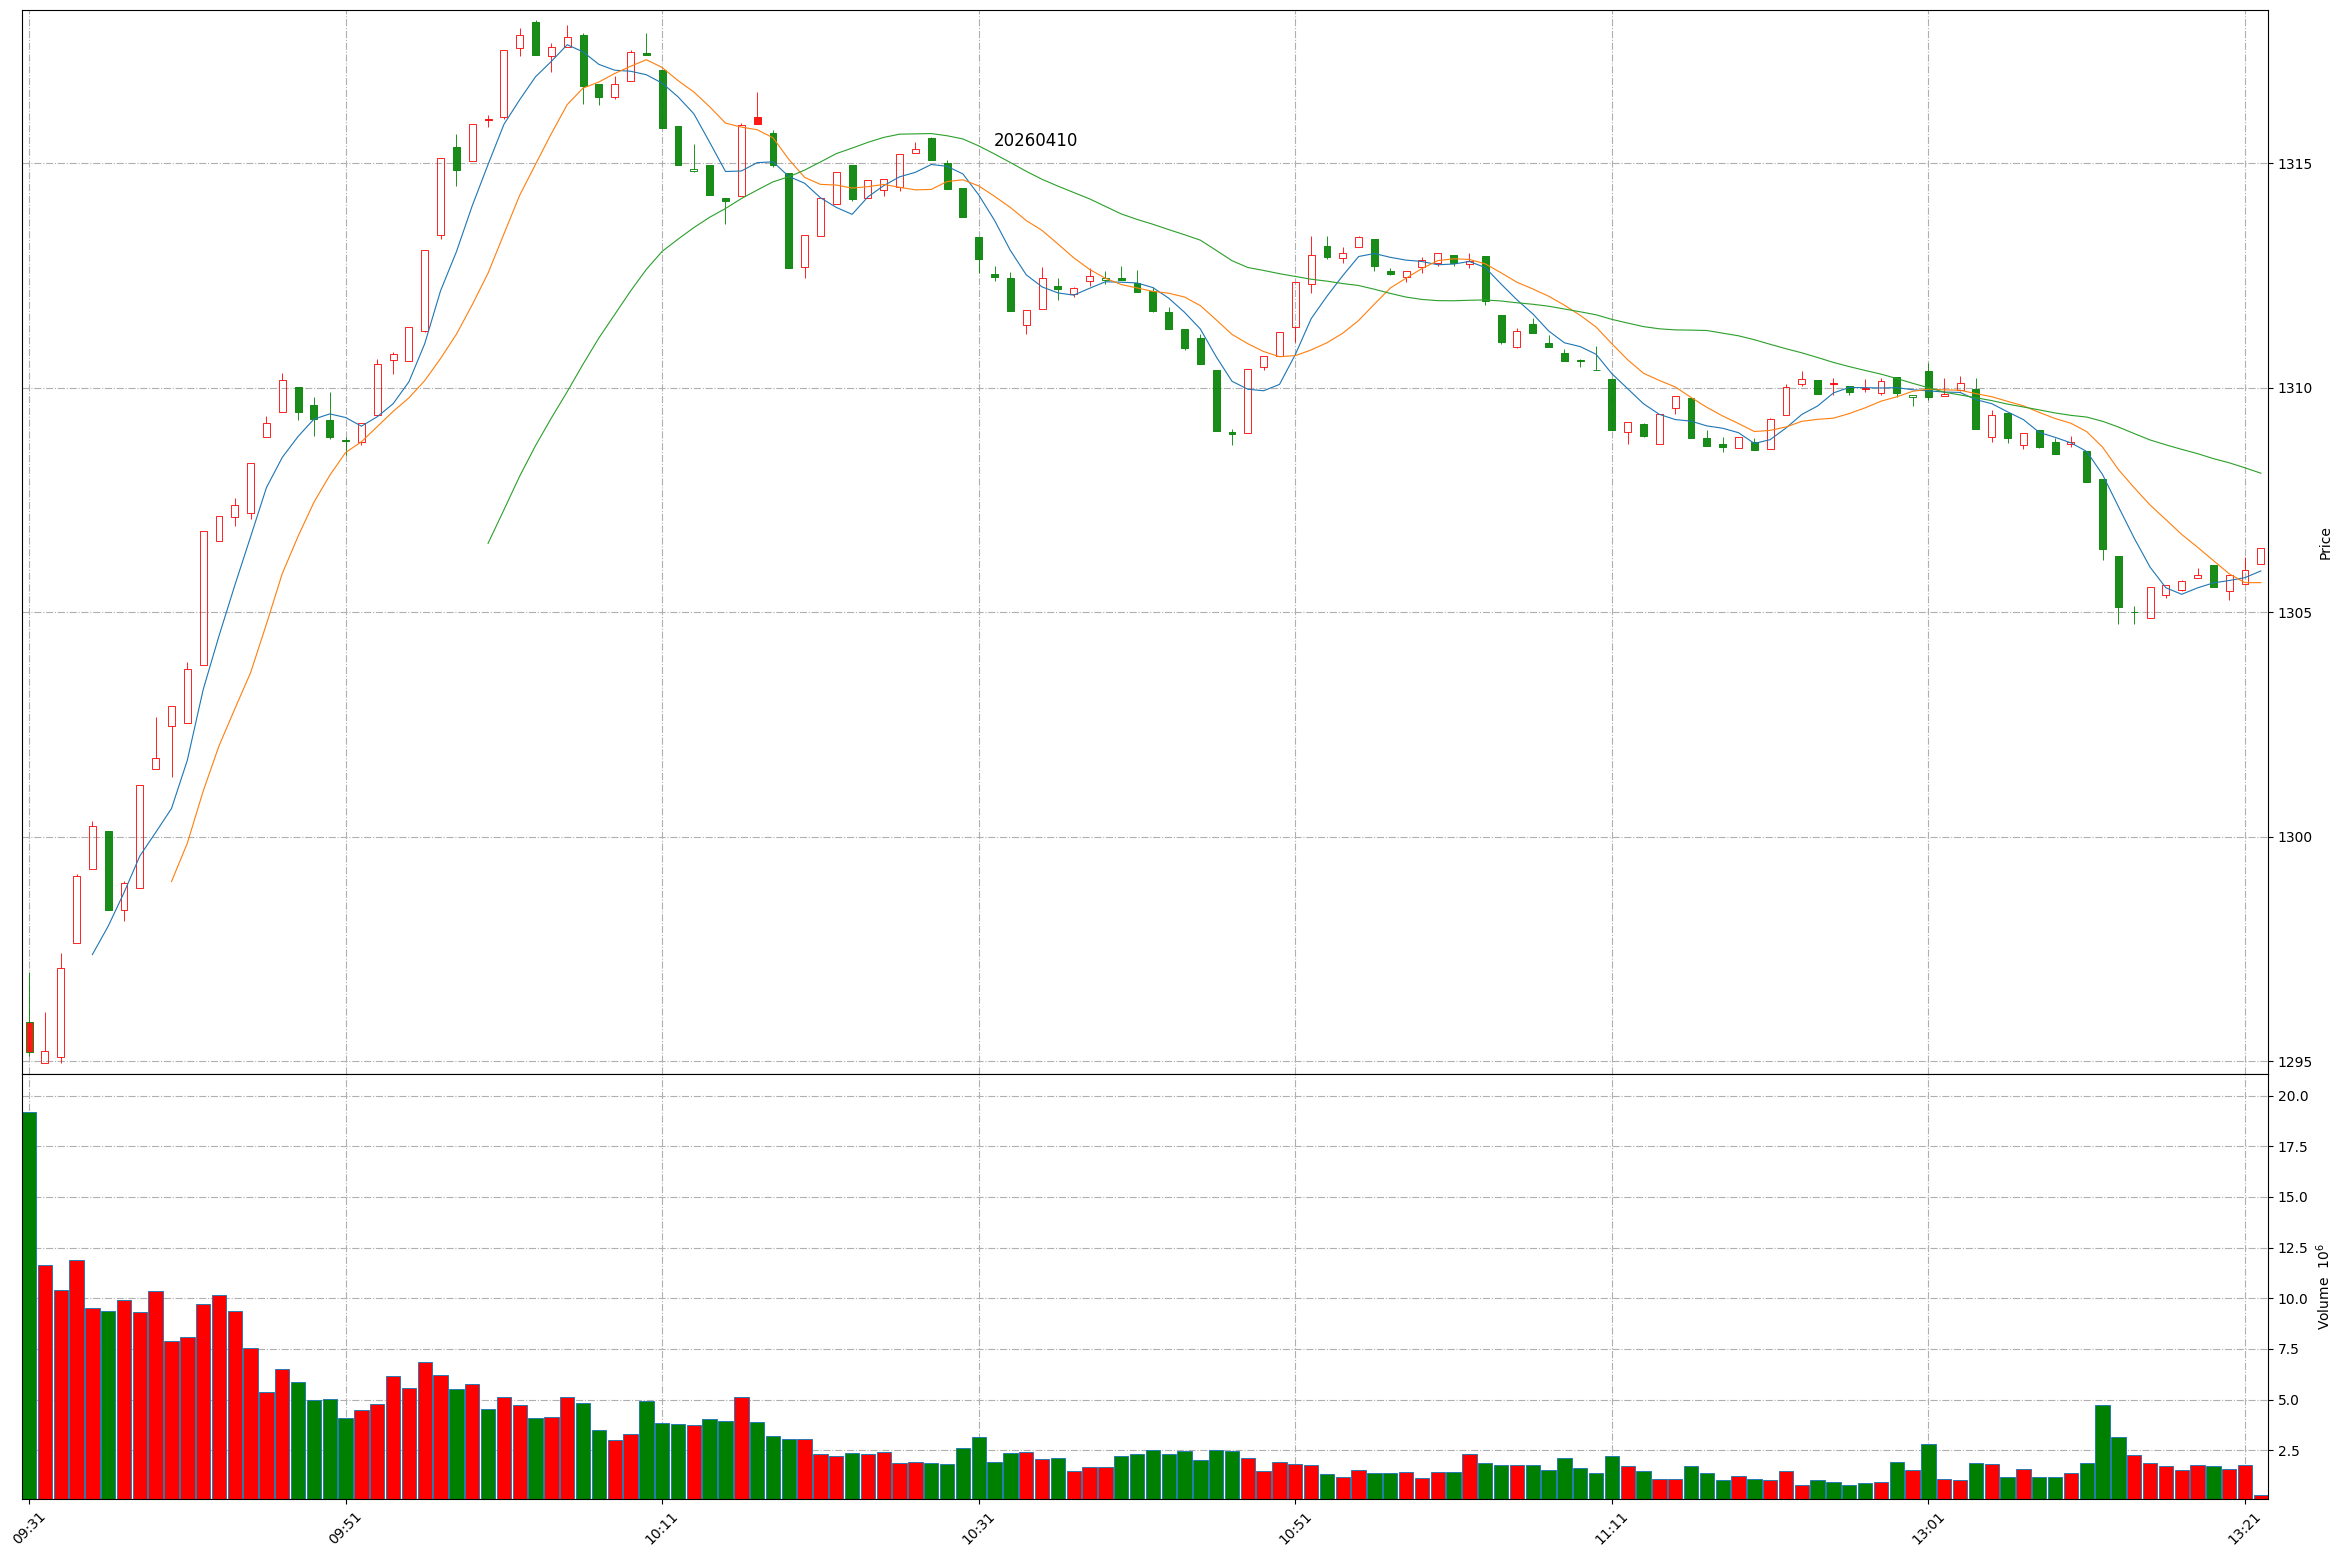
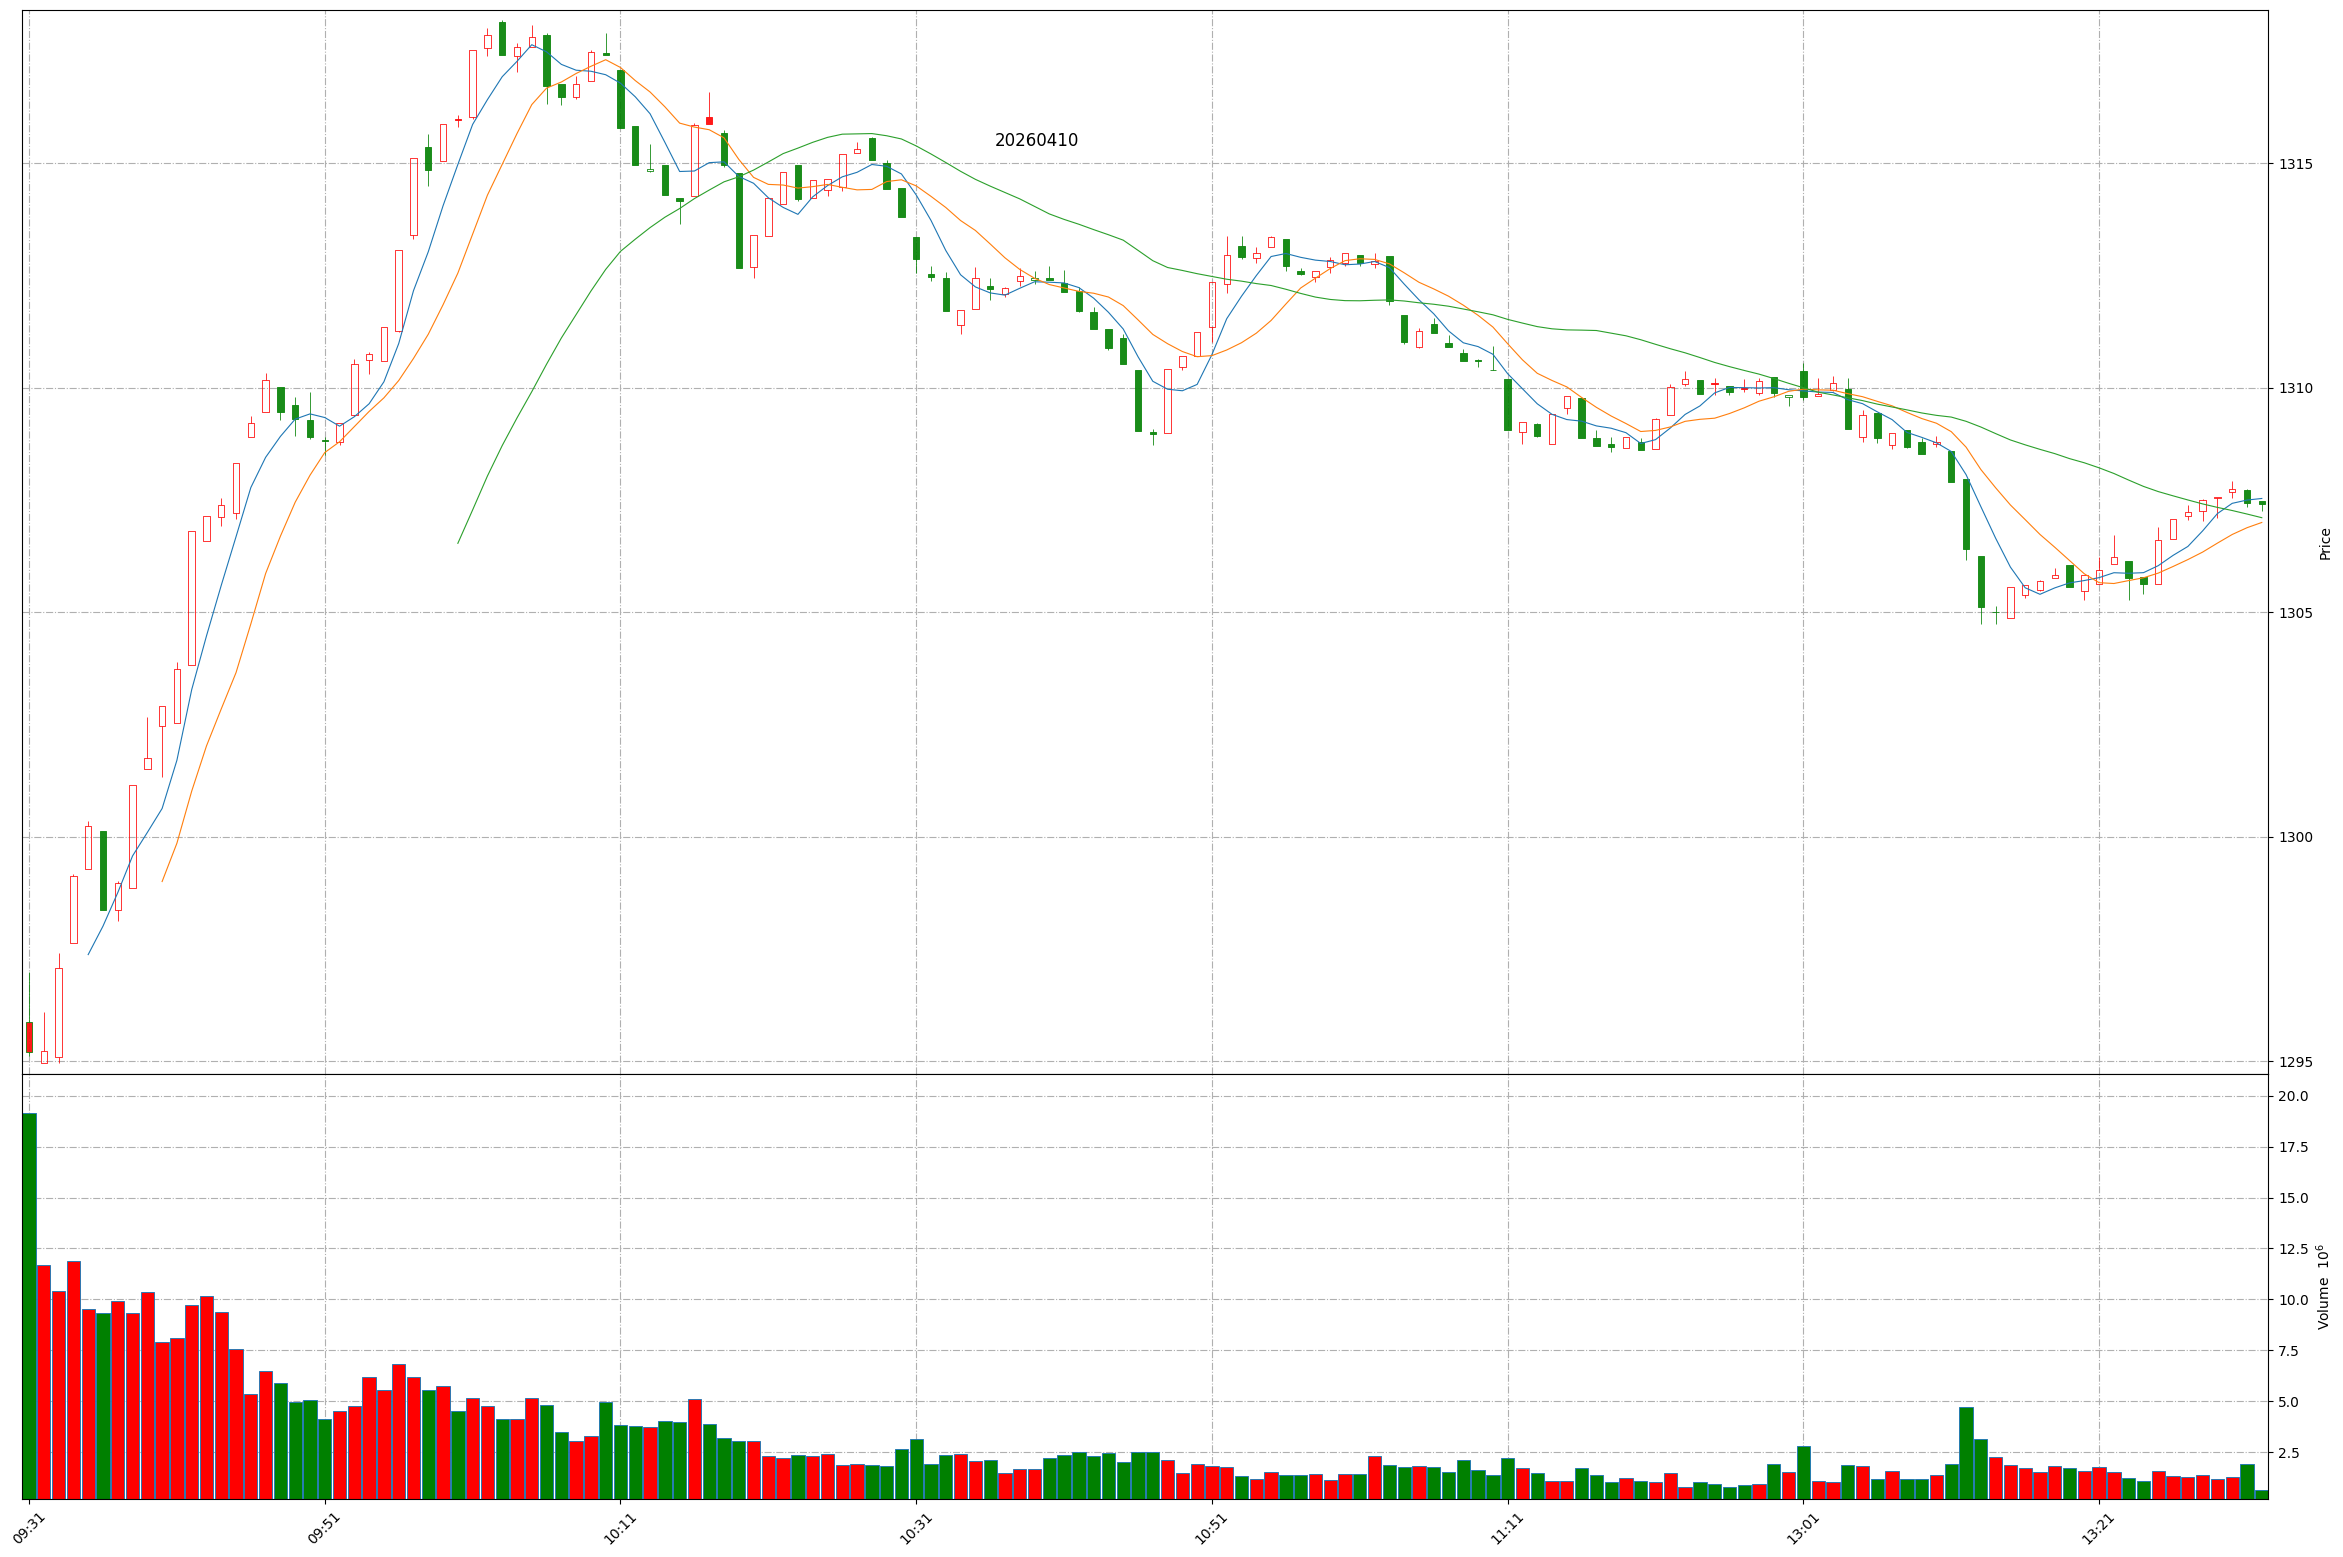
Github action update at 2026-04-10 13:31:41.

diff --git a/README.md b/README.md
@@ -1,11 +1,11 @@
 
 # Daily-A-share-market-quotes 每日 A 股指数（5min 更新）- 20260410
 
-### 上证指数 20260410 13:21
+### 上证指数 20260410 13:31
 ![](./fig/2026/4/20260410-sh000001.png)
 
-### 深证成指 20260410 13:21
+### 深证成指 20260410 13:31
 ![](./fig/2026/4/20260410-sz399001.png)
 
-### 北证50 20260410 13:21
+### 北证50 20260410 13:31
 ![](./fig/2026/4/20260410-bj899050.png)
